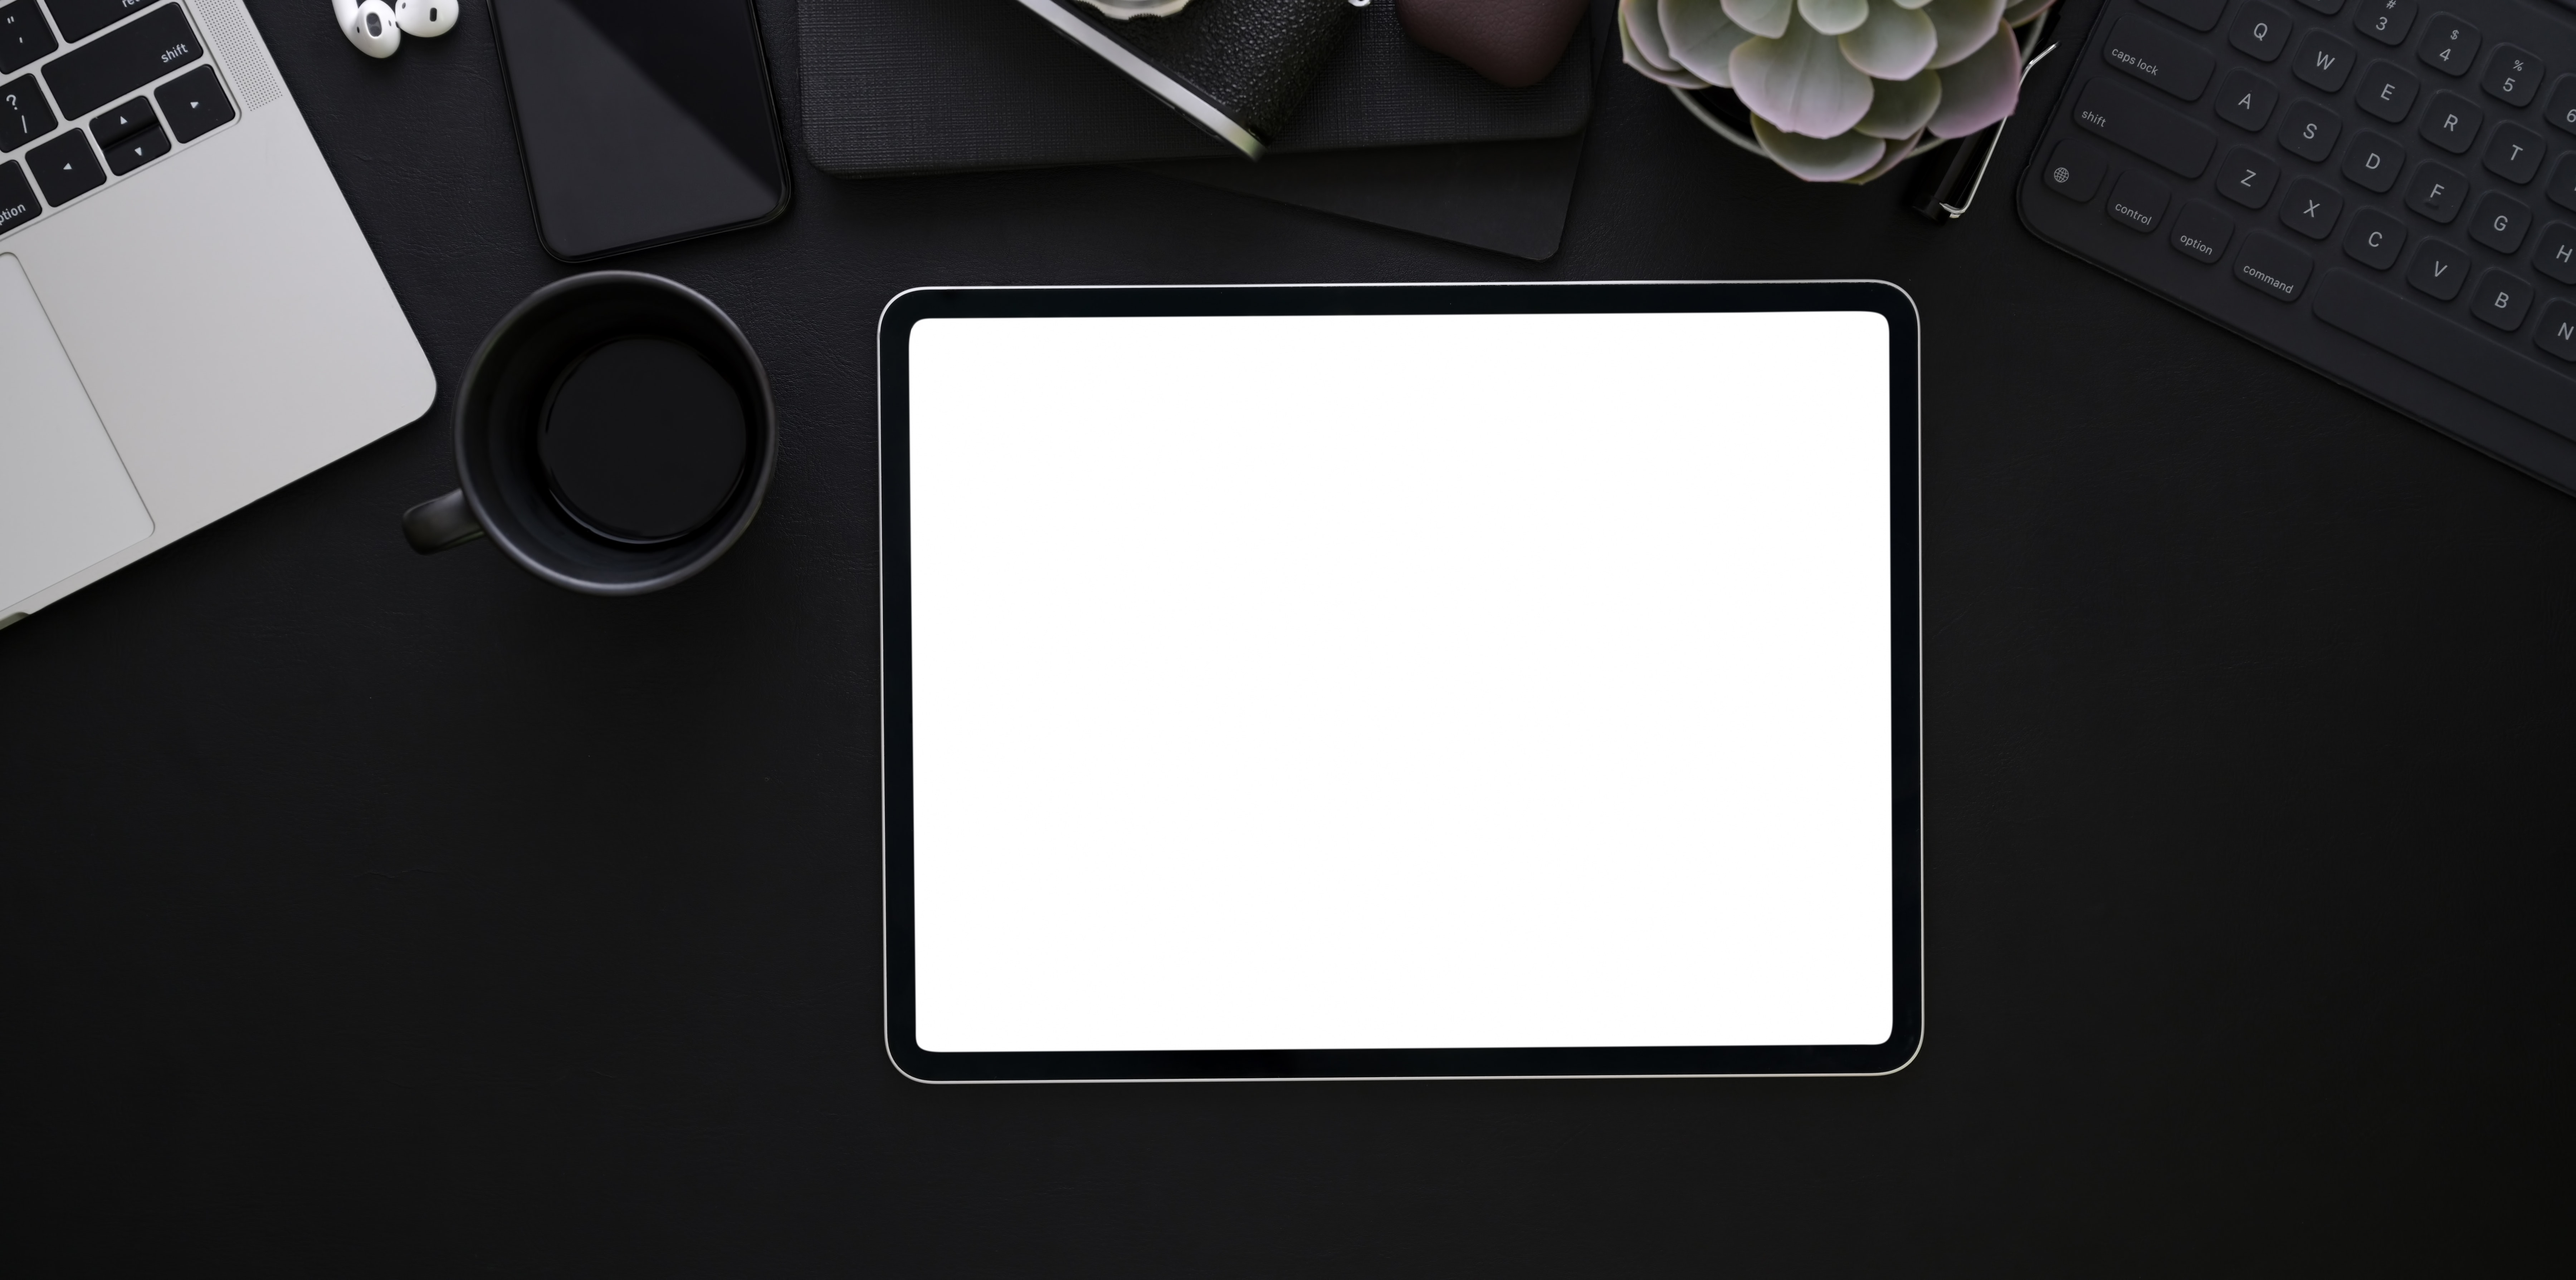
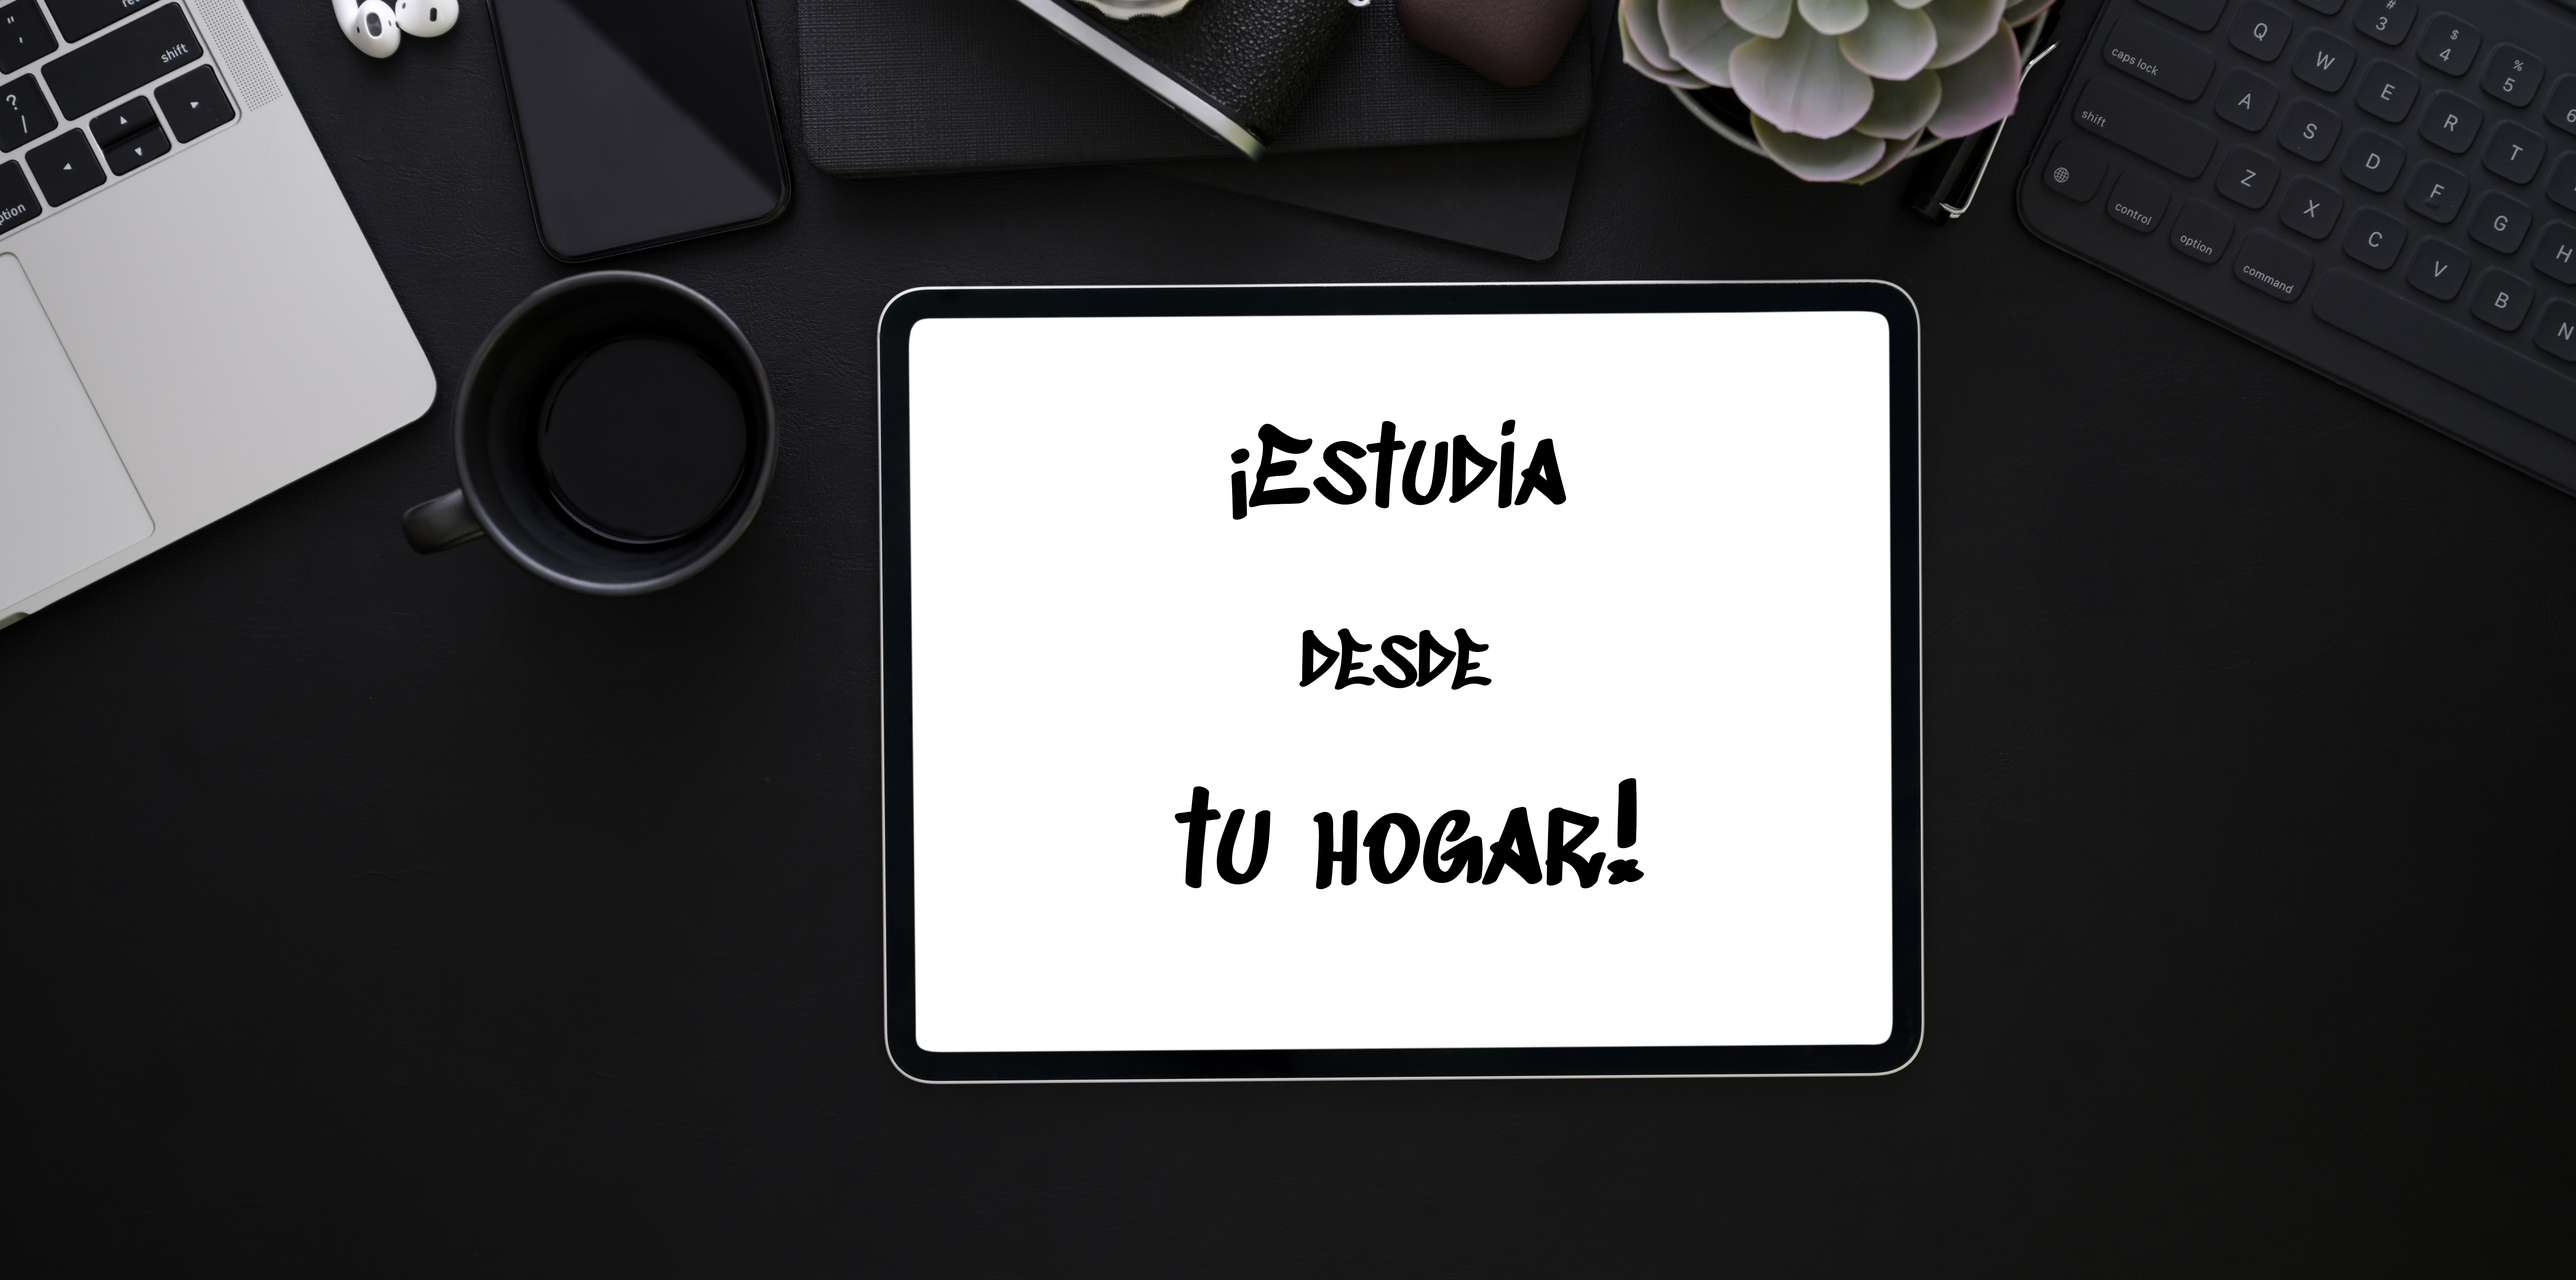
Se modifica la imagen del Slider1, se modifica el texto de los faturetes, se agregan las imagenes de los Container Marketing

Changed region(s): [[0.4375, 0.6201, 0.6562, 0.7131], [0.4688, 0.3411, 0.625, 0.4031], [0.5, 0.4961, 0.5938, 0.5581]]

diff --git a/index.html b/index.html
@@ -196,22 +196,35 @@
     <!-- Three columns of text below the carousel -->
     <div class="row">
       <div class="col-lg-4">
-        <svg class="bd-placeholder-img rounded-circle" width="140" height="140" xmlns="http://www.w3.org/2000/svg" preserveAspectRatio="xMidYMid slice" focusable="false" role="img" aria-label="Placeholder: 140x140"><title>Placeholder</title><rect width="100%" height="100%" fill="#777"/><text x="50%" y="50%" fill="#777" dy=".3em">140x140</text></svg>
+      				<picture>
+      					<source srcset="img/Icono-Infografia.png" type="image/svg+xml">
+                                              <img src="img/Icono-Infografia.png" width="100" height="100"   class="img-fluid img-thumbnail"	 alt="...">
+      					
+      				</picture>
+        <!--<svg class="bd-placeholder-img rounded-circle" width="140" height="140" xmlns="http://www.w3.org/2000/svg" preserveAspectRatio="xMidYMid slice" focusable="false" role="img" aria-label="Placeholder: 140x140"><title>Placeholder</title><rect width="100%" height="100%" fill="#777"/><text x="50%" y="50%" fill="#777" dy=".3em">140x140</text></svg>-->
         <h2>Infografías</h2>
         <p>Descargue las infografías necesarias para repasar los temas de manera gratuita, sin embargo se podría realizar donaciones y apoyar con el proyecto.</p>
         <p><a type="button" href="docs/Error.html" class="btn btn-outline-secondary">Ver Infografías</a></p>
       </div><!-- /.col-lg-4 -->
       <div class="col-lg-4">
-        <svg class="bd-placeholder-img rounded-circle" width="140" height="140" xmlns="http://www.w3.org/2000/svg" preserveAspectRatio="xMidYMid slice" focusable="false" role="img" aria-label="Placeholder: 140x140"><title>Placeholder</title><rect width="100%" height="100%" fill="#777"/><text x="50%" y="50%" fill="#777" dy=".3em">140x140</text></svg>
+        <picture>
+      					<source srcset="img/Icono-Play.png" type="image/svg+xml">
+                                              <img src="img/Icono-Play.png" width="100" height="100"  class="img-fluid img-thumbnail"	 alt="...">
+      					
+      				</picture>
         <h2>Tutoriales</h2>
         <p>Complemente el aprendizaje adquirido en sus clases con esta serie de tutoriales donde veremos trucos o temas muy específicos de diferentes áreas.</p>
         <p><a type="button" href="docs/Videos/index.html" class="btn btn-outline-secondary">Ver Vídeos</a></p>
       </div><!-- /.col-lg-4 -->
       <div class="col-lg-4">
-        <svg class="bd-placeholder-img rounded-circle" width="140" height="140" xmlns="http://www.w3.org/2000/svg" preserveAspectRatio="xMidYMid slice" focusable="false" role="img" aria-label="Placeholder: 140x140"><title>Placeholder</title><rect width="100%" height="100%" fill="#777"/><text x="50%" y="50%" fill="#777" dy=".3em">140x140</text></svg>
-        <h2>Heading</h2>
-        <p>Donec sed odio dui. Cras justo odio, dapibus ac facilisis in, egestas eget quam. Vestibulum id ligula porta felis euismod semper. Fusce dapibus.</p>
-        <p><a type="button" href="#" class="btn btn-outline-secondary">Secondary</a></p>
+        <picture>
+      					<source srcset="img/Icono-Tutor.png" type="image/svg+xml">
+                                              <img src="img/Icono-Tutor.png" width="100" height="100"  class="img-fluid img-thumbnail"	 alt="...">
+      					
+      				</picture>
+        <h2>Tutorías</h2>
+        <p>Si existen temas que se han abordado acá y se te han dificultado, puedes comunicarte y así poder recibir ayuda un poco más personalizada.</p>
+        <p><a type="button" href="#" class="btn btn-outline-secondary">Contactos</a></p>
       </div><!-- /.col-lg-4 -->
     </div><!-- /.row -->
 
@@ -222,8 +235,8 @@
 
     <div class="row featurette">
       <div class="col-md-7">
-        <h2 class="featurette-heading">First featurette heading. <span class="text-muted">It’ll blow your mind.</span></h2>
-        <p class="lead">Donec ullamcorper nulla non metus auctor fringilla. Vestibulum id ligula porta felis euismod semper. Praesent commodo cursus magna, vel scelerisque nisl consectetur. Fusce dapibus, tellus ac cursus commodo.</p>
+        <h2 class="featurette-heading">¿Tu aprendizaje ha sido afectado? <span class="text-muted">No te detengas.</span></h2>
+        <p class="lead">Puedes recibir apoyo desde la comodidad de tu casa. Debora todo los temas que se te presenten ya sea de Contabilidad Básica, Intermedia, Superior, Costos, Finanzas, etc. No esperés hasta regresar al aula de tu clase para continuar aprendiendo.</p>
       </div>
       <div class="col-md-5">
                                 <div id="imagen">
@@ -261,8 +274,8 @@
 
     <div class="row featurette">
       <div class="col-md-7">
-        <h2 class="featurette-heading">And lastly, this one. <span class="text-muted">Checkmate.</span></h2>
-        <p class="lead">Donec ullamcorper nulla non metus auctor fringilla. Vestibulum id ligula porta felis euismod semper. Praesent commodo cursus magna, vel scelerisque nisl consectetur. Fusce dapibus, tellus ac cursus commodo.</p>
+        <h2 class="featurette-heading">Agiliza el proceso. <span class="text-muted">Se eficiente.</span></h2>
+        <p class="lead">Dentro del proceso de aprendizaje llevado en tus clases habituales existen tareas que contienen una gran cantidad de formatos y para ser llenados se necita bastante tiempo, invierte ese tiempo en adquirir nuevo conocimiento y aprende cómo automatizar un poco en Excel dichos formatos y de ésta forma llevarás un poco más el control de los números.</p>
       </div>
       <div class="col-md-5">
                                     <div id="imagen">
